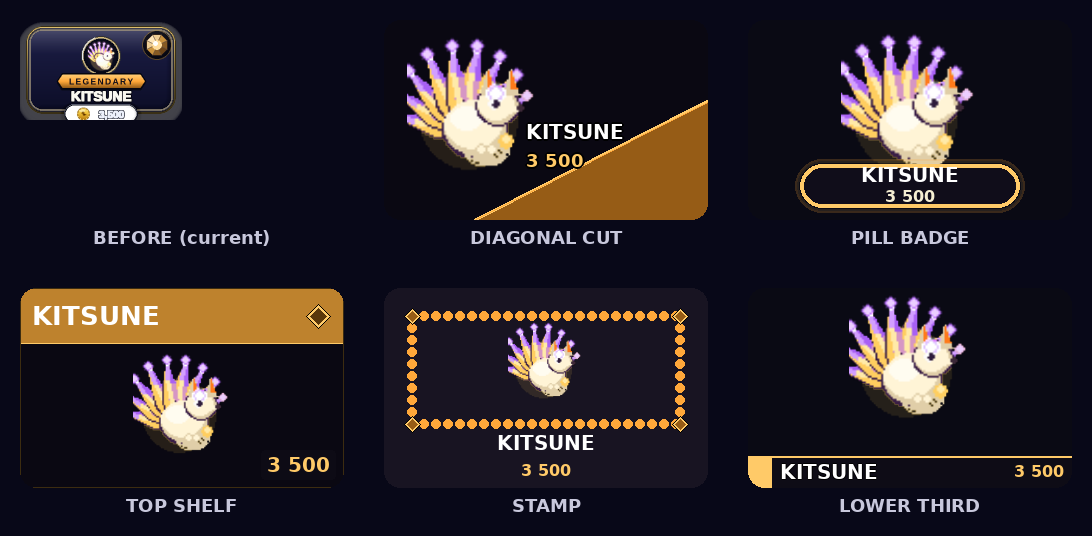
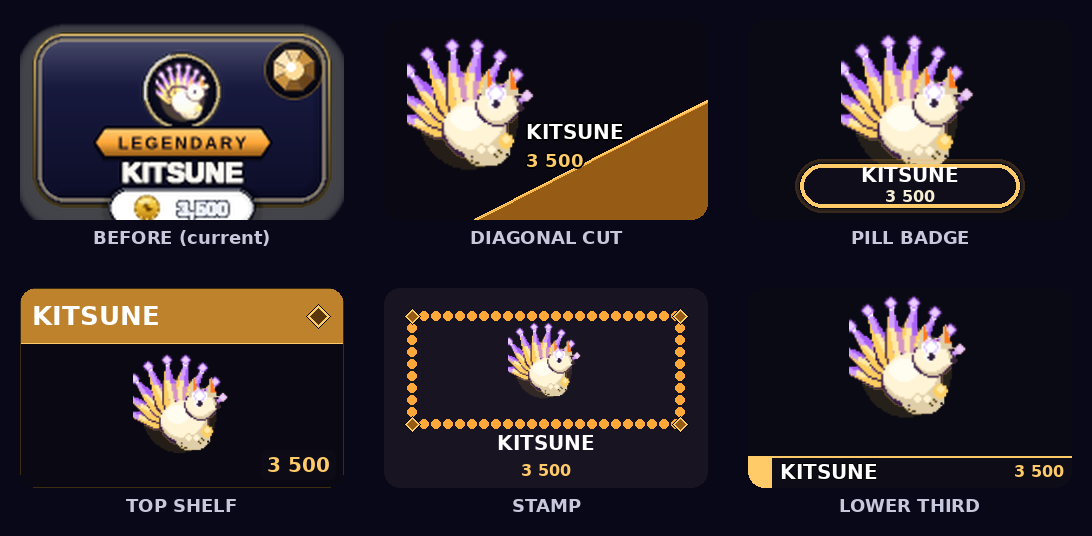
feat: showcase — fix BEFORE card scaling, add combined v2+v3 showcase
Claude-Session: https://claude.ai/code/session_01PHa7j1dH3g5BMmmcCU5mZW

Changed region(s): [[0.0, 0.0299, 0.3425, 0.4179]]

diff --git a/tools/render_showcase_combined.py b/tools/render_showcase_combined.py
@@ -1,0 +1,101 @@
+"""Combined showcase: BEFORE + 5 v2 + 5 v3 round-2 concepts. 4 rows × 3 cols, 324×200 per cell."""
+import os, sys
+os.environ["SDL_VIDEODRIVER"] = "dummy"
+os.environ["SDL_AUDIODRIVER"] = "dummy"
+sys.path.insert(0, "/home/user/skybit")
+import pygame
+pygame.init()
+pygame.display.set_mode((1, 1))
+
+from PIL import Image, ImageDraw, ImageFont
+
+CARD_W, CARD_H = 324, 200
+PAD_X, PAD_Y = 20, 20
+LABEL_H = 30
+SECTION_H = 26   # height of the v2/v3 section divider row
+COLS = 3
+BG  = (8, 8, 24)
+DIV = (30, 28, 52)  # divider strip colour
+
+# Build layout: two sections (V2 and V3), each 2 rows × 3 cols, BEFORE in slot (0,0) of V2 section
+PANEL_W = CARD_W + PAD_X * 2
+PANEL_H = CARD_H + PAD_Y * 2 + LABEL_H
+
+# Total height: header section label + 2 panels + section label + 2 panels
+OUT_W = PANEL_W * COLS
+OUT_H = SECTION_H + PANEL_H * 2 + SECTION_H + PANEL_H * 2
+
+canvas = Image.new("RGBA", (OUT_W, OUT_H), BG + (255,))
+draw = ImageDraw.Draw(canvas)
+
+try:
+    font_label = ImageFont.truetype("/home/user/skybit/game/assets/DejaVuSans-Bold.ttf", 16)
+    font_sect  = ImageFont.truetype("/home/user/skybit/game/assets/DejaVuSans-Bold.ttf", 14)
+except Exception:
+    font_label = ImageFont.load_default()
+    font_sect  = font_label
+
+def draw_section_header(y, text):
+    draw.rectangle([(0, y), (OUT_W, y + SECTION_H)], fill=DIV)
+    draw.text((OUT_W // 2, y + SECTION_H // 2), text, fill=(180, 160, 240), font=font_sect, anchor="mm")
+
+def place_card(img_path, col, row_in_section, section_y_offset, label, scale_up=False):
+    card_img = Image.open(img_path).convert("RGBA")
+    if scale_up:
+        card_img = card_img.resize((CARD_W, CARD_H), Image.LANCZOS)
+    # Composite card over BG patch
+    bg_patch = Image.new("RGBA", (CARD_W, CARD_H), BG + (255,))
+    bg_patch.paste(card_img, (0, 0), card_img)
+    x = col * PANEL_W + PAD_X
+    y = section_y_offset + row_in_section * PANEL_H + PAD_Y
+    canvas.paste(bg_patch, (x, y))
+    # Label centered below card
+    lx = col * PANEL_W + PANEL_W // 2
+    ly = y + CARD_H + LABEL_H // 2 + 4
+    draw.text((lx, ly), label, fill=(190, 185, 220), font=font_label, anchor="mm")
+
+# --- V2 SECTION ---
+v2_y = 0
+draw_section_header(v2_y, "ROUND 2  ·  V2 CONCEPTS")
+v2_cards_y = v2_y + SECTION_H
+
+# Render the current store card (162×100 logical) and scale up to 324×200
+from game.store_cards import render_card as _rc
+before = _rc("skin_kitsune", equipped=False, owned=True)
+pygame.image.save(before, "/tmp/before_combined.png")
+place_card("/tmp/before_combined.png", 0, 0, v2_cards_y, "CURRENT STORE CARD", scale_up=True)
+
+v2_slots = [
+    ("docs/item_card_redesign_v2/marquee-stripe/round_2.png",  1, 0, "MARQUEE STRIPE"),
+    ("docs/item_card_redesign_v2/triband/round_2.png",         2, 0, "TRIBAND"),
+    ("docs/item_card_redesign_v2/lateral-split/round_2.png",   0, 1, "LATERAL SPLIT"),
+    ("docs/item_card_redesign_v2/matte-frame/round_2.png",     1, 1, "MATTE FRAME"),
+    ("docs/item_card_redesign_v2/radial-spotlight/round_2.png",2, 1, "RADIAL SPOTLIGHT"),
+]
+for path, col, row, label in v2_slots:
+    place_card(path, col, row, v2_cards_y, label)
+
+# --- V3 SECTION ---
+v3_y = v2_cards_y + PANEL_H * 2
+draw_section_header(v3_y, "ROUND 3  ·  V3 CONCEPTS")
+v3_cards_y = v3_y + SECTION_H
+
+v3_slots = [
+    ("docs/item_card_redesign_v3/diagonal-cut/round_2.png",  0, 0, "DIAGONAL CUT"),
+    ("docs/item_card_redesign_v3/pill-badge/round_2.png",    1, 0, "PILL BADGE"),
+    ("docs/item_card_redesign_v3/top-shelf/round_2.png",     2, 0, "TOP SHELF"),
+    ("docs/item_card_redesign_v3/stamp/round_2.png",         0, 1, "STAMP"),
+    ("docs/item_card_redesign_v3/lower-third/round_2.png",   1, 1, "LOWER THIRD"),
+]
+for path, col, row, label in v3_slots:
+    place_card(path, col, row, v3_cards_y, label)
+
+os.makedirs("docs/item_card_redesign_v3", exist_ok=True)
+canvas.save("docs/item_card_redesign_v3/showcase_combined.png")
+
+img = Image.open("docs/item_card_redesign_v3/showcase_combined.png")
+w, h = img.size
+sz = os.path.getsize("docs/item_card_redesign_v3/showcase_combined.png")
+print(f"PIL: {w}x{h}, {sz} bytes")
+assert w == OUT_W and h == OUT_H
+print("validation OK")

diff --git a/tools/render_showcase_v3.py b/tools/render_showcase_v3.py
@@ -30,6 +30,8 @@ except Exception:
 
 def place_card(img_path, col, row, label):
     card_img = Image.open(img_path).convert("RGBA")
+    if card_img.size != (CARD_W, CARD_H):
+        card_img = card_img.resize((CARD_W, CARD_H), Image.LANCZOS)
     x = col * PANEL_W + PAD
     y = row * PANEL_H + PAD
     # Composite with alpha over BG
